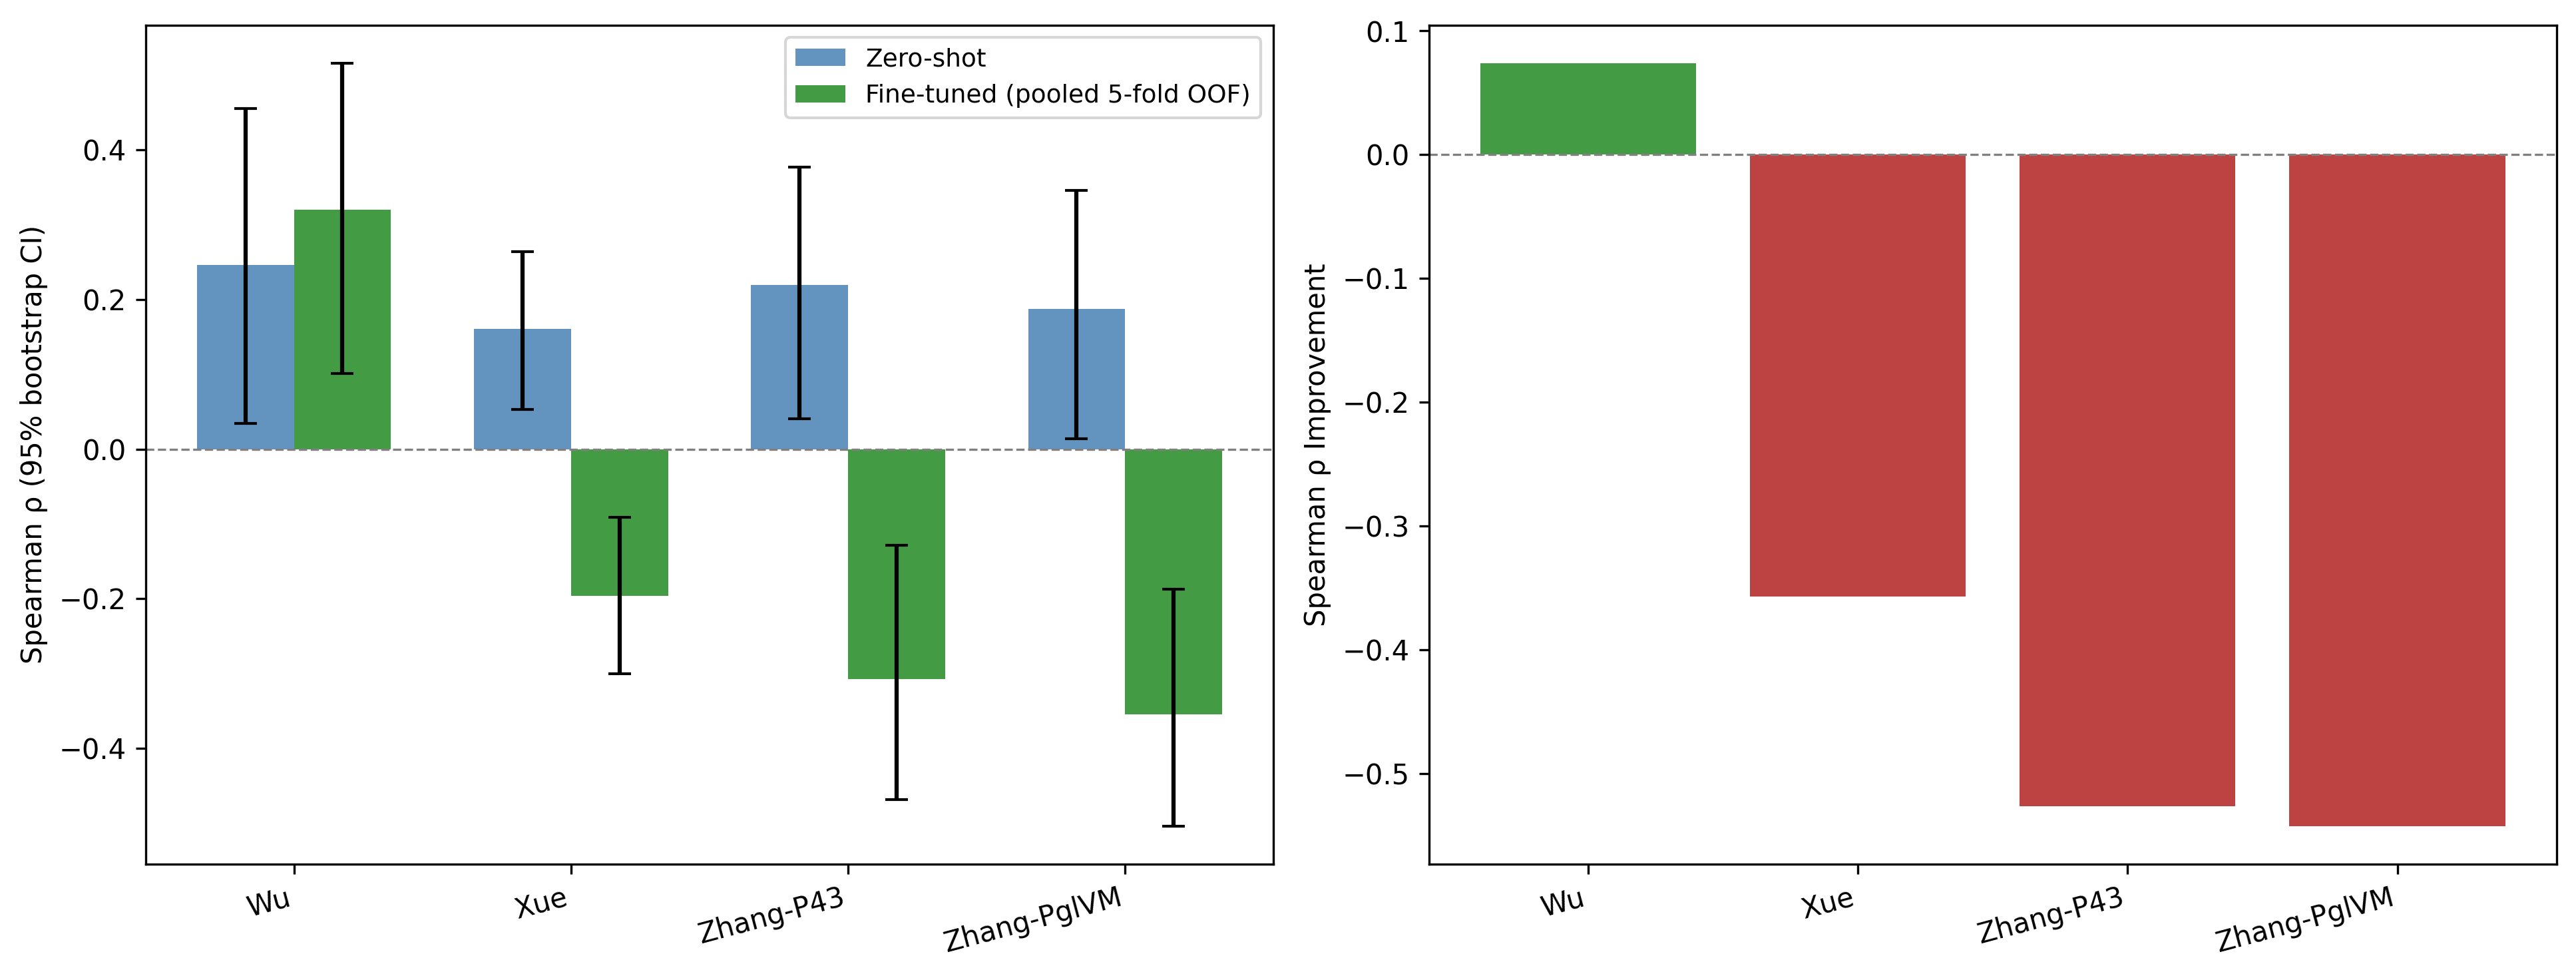
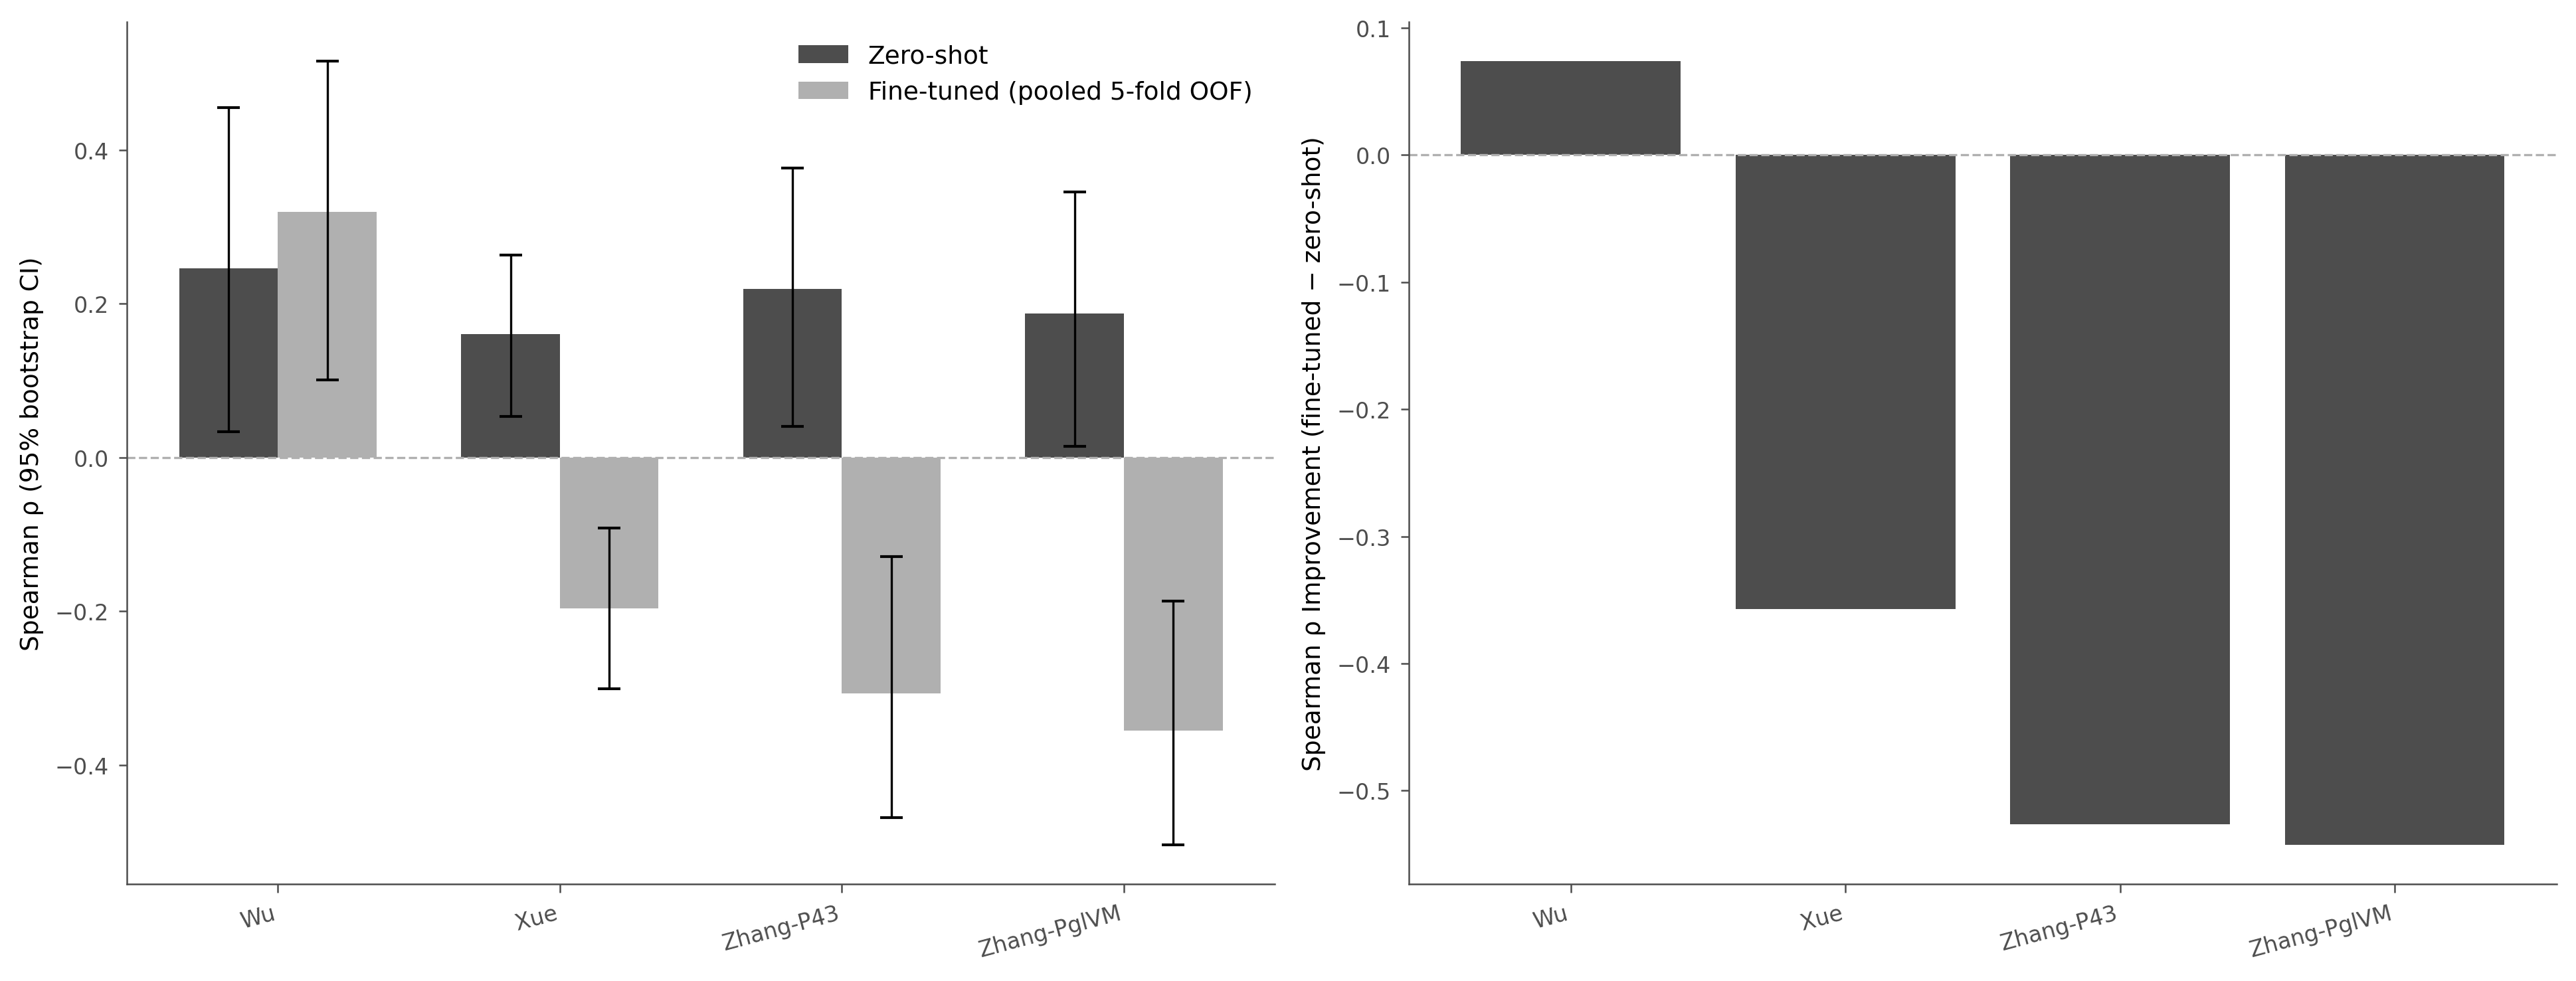
Restyle cross-dataset figures to grayscale house style

diff --git a/scripts/13_cross_dataset_finetuning.py b/scripts/13_cross_dataset_finetuning.py
@@ -54,6 +54,7 @@ from tensorflow.keras import layers
 import matplotlib
 matplotlib.use('Agg')
 import matplotlib.pyplot as plt
+from src.plotstyle import apply_tufte, tufte_ax, GRAY, LIGHT_GRAY
 
 # ── Configuration ──────────────────────────────────────────────────────────
 RANDOM_STATE = 42
@@ -449,6 +450,7 @@ def run_finetuning_cv(pretrained_models, scaler_grasso, dataset_name, spec):
 
 def make_figure(all_results, save_path):
     """Generate comparison figure: zero-shot vs fine-tuned."""
+    apply_tufte()
     fig, axes = plt.subplots(1, 2, figsize=(13, 5))
 
     datasets = [r['dataset'] for r in all_results]
@@ -465,29 +467,29 @@ def make_figure(all_results, save_path):
     x = np.arange(len(datasets))
     width = 0.35
 
-    bars_zs = ax.bar(x - width/2, zs_spearman, width, yerr=zs_err, label='Zero-shot',
-                     color='steelblue', alpha=0.85, capsize=4, edgecolor='none')
-    bars_ft = ax.bar(x + width/2, ft_spearman, width, yerr=ft_err,
-                     label='Fine-tuned (pooled 5-fold OOF)', color='forestgreen',
-                     alpha=0.85, capsize=4, edgecolor='none')
+    ax.bar(x - width/2, zs_spearman, width, yerr=zs_err, label='Zero-shot',
+           color=GRAY, capsize=4, error_kw=dict(lw=0.8))
+    ax.bar(x + width/2, ft_spearman, width, yerr=ft_err,
+           label='Fine-tuned (pooled 5-fold OOF)', color=LIGHT_GRAY,
+           capsize=4, error_kw=dict(lw=0.8))
 
     ax.set_ylabel('Spearman ρ (95% bootstrap CI)')
     ax.set_xticks(x)
     ax.set_xticklabels(datasets, rotation=15, ha='right')
     ax.legend(fontsize=9)
-    ax.axhline(y=0, color='gray', linewidth=0.8, linestyle='--')
+    ax.axhline(y=0, color=LIGHT_GRAY, linewidth=0.8, linestyle='--')
+    tufte_ax(ax)
 
-    # Panel B: Improvement
+    # Panel B: Improvement (sign carried by bar direction, no color encoding)
     ax = axes[1]
     improvements = [f - z for f, z in zip(ft_spearman, zs_spearman)]
-    colors = ['forestgreen' if imp > 0 else 'firebrick' for imp in improvements]
-    bars = ax.bar(datasets, improvements, color=colors, alpha=0.85,
-                  edgecolor='none')
+    ax.bar(datasets, improvements, color=GRAY)
 
-    ax.set_ylabel('Spearman ρ Improvement')
-    ax.axhline(y=0, color='gray', linewidth=0.8, linestyle='--')
+    ax.set_ylabel('Spearman ρ Improvement (fine-tuned − zero-shot)')
+    ax.axhline(y=0, color=LIGHT_GRAY, linewidth=0.8, linestyle='--')
 
     ax.set_xticklabels(datasets, rotation=15, ha='right')
+    tufte_ax(ax)
 
     plt.tight_layout()
     fig.savefig(save_path, dpi=300, bbox_inches='tight')

diff --git a/scripts/05_cross_dataset_generalization.py b/scripts/05_cross_dataset_generalization.py
@@ -41,6 +41,7 @@ from src.evaluation import compute_metrics, format_metrics
 import matplotlib
 matplotlib.use('Agg')
 import matplotlib.pyplot as plt
+from src.plotstyle import apply_tufte, tufte_ax, GRAY, LIGHT_GRAY
 
 # ── Configuration ──────────────────────────────────────────────────────────
 RANDOM_STATE = 42
@@ -346,6 +347,7 @@ def main():
 
 def _make_figure(all_external_results, results, zhang_merged):
     """Generate cross-dataset generalization figure."""
+    apply_tufte()
     fig, axes = plt.subplots(1, 2, figsize=(14, 5))
 
     # ── Panel A: Spearman correlations by dataset ────────────────────────
@@ -357,15 +359,16 @@ def _make_figure(all_external_results, results, zhang_merged):
     x = np.arange(len(datasets))
     width = 0.35
 
-    bars_rf = ax.bar(x - width/2, rf_spearman, width, label='RF', color='steelblue', alpha=0.85)
-    bars_nn = ax.bar(x + width/2, nn_spearman, width, label='NN', color='darkorange', alpha=0.85)
+    ax.bar(x - width/2, rf_spearman, width, label='RF', color=GRAY)
+    ax.bar(x + width/2, nn_spearman, width, label='NN', color=LIGHT_GRAY)
 
     ax.set_ylabel('Spearman Rank Correlation\n(aligned: positive = agreement)')
     ax.set_xticks(x)
     ax.set_xticklabels(datasets, rotation=15, ha='right')
     ax.legend()
     ax.set_ylim(-0.5, 0.5)
-    ax.axhline(y=0, color='gray', linewidth=0.8, linestyle='--')
+    ax.axhline(y=0, color=LIGHT_GRAY, linewidth=0.8, linestyle='--')
+    tufte_ax(ax)
 
     # ── Panel B: Zhang cross-promoter scatter (sequence-matched) ─────────
     ax = axes[1]
@@ -382,17 +385,18 @@ def _make_figure(all_external_results, results, zhang_merged):
     # (positive/diagonal = agreement), consistent with the aligned bars in panel A.
     pred_rf_ranks = rankdata(-zhang_merged['pred_rf_p43'].values)
 
-    ax.scatter(p43_wa_ranks, pglvm_wa_ranks, alpha=0.5, s=30, color='steelblue',
+    ax.scatter(p43_wa_ranks, pglvm_wa_ranks, s=28, color=GRAY, alpha=0.7,
                label='Actual WA: P43 vs PglVM')
-    ax.scatter(p43_wa_ranks, pred_rf_ranks, alpha=0.5, s=30, color='darkorange', marker='^',
+    ax.scatter(p43_wa_ranks, pred_rf_ranks, s=28, facecolors='none', edgecolors=GRAY,
+               marker='^', linewidths=0.7, alpha=0.7,
                label='RF predicted secretion propensity ($-$WA) vs P43 actual')
 
     lims = [0, len(p43_wa) + 1]
-    ax.plot(lims, lims, 'k--', lw=0.8, alpha=0.5)
+    ax.plot(lims, lims, ls='--', lw=0.8, color=LIGHT_GRAY)
     ax.set_xlabel('Zhang-P43 Actual WA Rank')
     ax.set_ylabel('Rank')
-    ax.text(0.05, 0.95, '(B)', transform=ax.transAxes, fontsize=10, va='top')
     ax.legend(fontsize=8, loc='upper left')
+    tufte_ax(ax)
 
     plt.tight_layout()
 